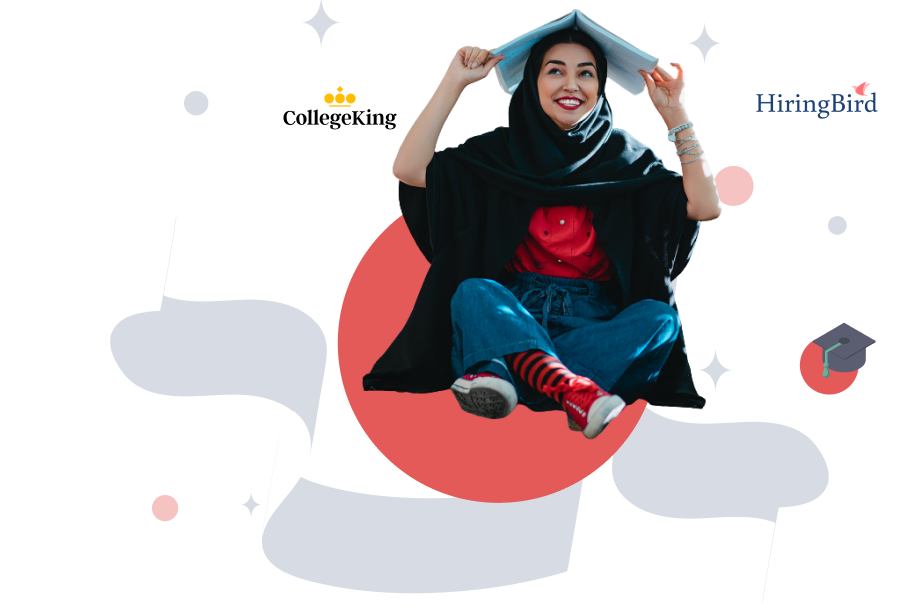
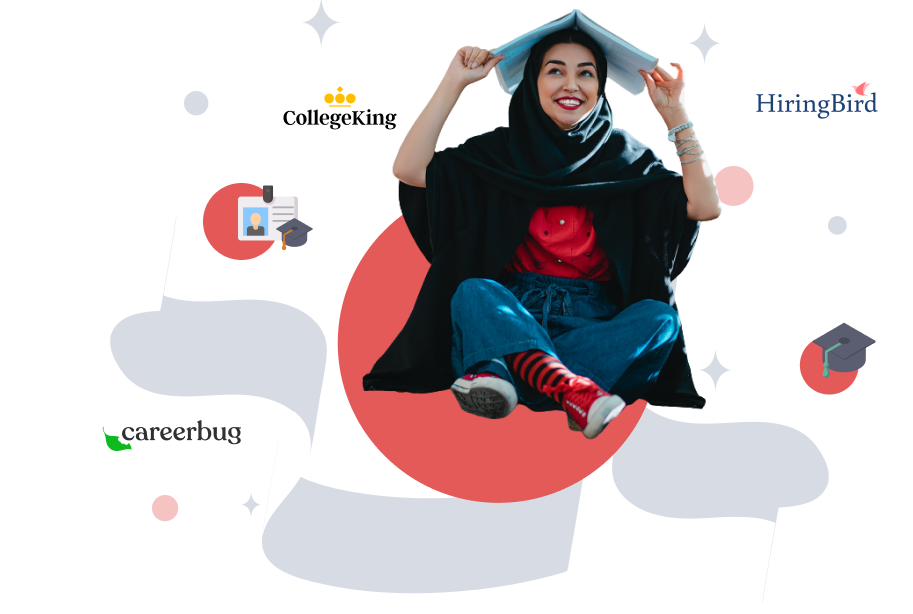
new changes

Changed region(s): [[0.2147, 0.2785, 0.3373, 0.4332], [0.092, 0.6808, 0.276, 0.7427]]

diff --git a/src/components/icons/cog.js b/src/components/icons/cog.js
@@ -1,20 +1,11 @@
 import React from 'react';
 import { rgba } from 'polished';
+import career from 'assets/images/career.png';
+import Image from 'components/image';
 
 const Cog = ({ fill, ...props }) => {
   return (
-    <svg
-      width="31"
-      height="32"
-      viewBox="0 0 31 32"
-      fill={fill ?? rgba('#FFFFFF', 0.3)}
-    >
-      <path
-        fillRule="evenodd"
-        clipRule="evenodd"
-        d="M30.8616 13.9725C30.8114 13.7549 30.6887 13.561 30.5138 13.4222C30.3388 13.2835 30.1219 13.2081 29.8986 13.2087C29.2242 13.2045 28.567 12.9964 28.0133 12.6114C27.4597 12.2264 27.0356 11.6828 26.7969 11.0521C26.5425 10.392 26.4862 9.67203 26.6349 8.98038C26.7836 8.28873 27.1308 7.65546 27.634 7.1582C27.7905 7.00576 27.886 6.80152 27.9028 6.58377C27.9196 6.36602 27.8566 6.14961 27.7255 5.97497C27.0345 5.04748 26.2383 4.20326 25.3531 3.45897C25.2724 3.39012 25.179 3.33778 25.0782 3.30504C24.9773 3.27229 24.8711 3.25976 24.7654 3.26811C24.6597 3.27645 24.5566 3.3055 24.4622 3.35367C24.3677 3.40183 24.2837 3.46809 24.2149 3.54874C23.7599 4.06388 23.1565 4.42546 22.4876 4.58369C21.8187 4.74192 21.1173 4.68898 20.4797 4.43232C19.8366 4.1347 19.299 3.64893 18.938 3.03921C18.577 2.4295 18.4096 1.72469 18.4578 1.01775C18.4733 0.800743 18.406 0.585925 18.2696 0.416447C18.1332 0.24697 17.9377 0.135234 17.7224 0.104005C16.6033 -0.0282801 15.4729 -0.0331362 14.3527 0.0891959C14.1388 0.119789 13.9439 0.22853 13.8056 0.394509C13.6672 0.560487 13.5953 0.771877 13.6038 0.987767C13.6384 1.68816 13.4613 2.38273 13.0956 2.98108C12.7299 3.57942 12.1925 4.05382 11.5535 4.34255C10.919 4.59114 10.2237 4.63963 9.56089 4.48168C8.89805 4.32373 8.29935 3.96696 7.8452 3.45897C7.70602 3.29943 7.50997 3.20062 7.29892 3.18383C7.08788 3.16703 6.87865 3.2335 6.716 3.36902C5.81332 4.10521 5.00005 4.94471 4.29278 5.87021C4.15914 6.04655 4.09451 6.2655 4.11105 6.48614C4.1276 6.70678 4.22419 6.91381 4.38264 7.06825C4.89475 7.56608 5.24763 8.20474 5.39666 8.90323C5.54569 9.60173 5.48411 10.3287 5.21978 10.9922C4.95425 11.6338 4.50103 12.1803 3.91946 12.5599C3.33788 12.9394 2.65517 13.1343 1.96088 13.1189C1.74304 13.1083 1.52977 13.1842 1.36763 13.3301C1.20548 13.476 1.10761 13.68 1.09522 13.8977C0.965655 15.0874 0.965655 16.2876 1.09522 17.4772C1.14866 17.6968 1.27479 17.8917 1.45319 18.0304C1.63159 18.1691 1.85175 18.2434 2.07771 18.2411C2.75025 18.2419 3.40626 18.449 3.95721 18.8347C4.50816 19.2204 4.92752 19.766 5.15844 20.3976C5.41436 21.0575 5.47139 21.7779 5.32262 22.4699C5.17384 23.1619 4.82573 23.7951 4.32121 24.2915C4.1648 24.444 4.06927 24.6482 4.05246 24.866C4.03565 25.0837 4.09874 25.3001 4.22989 25.4748C4.92127 26.401 5.71615 27.245 6.59917 27.9908C6.76384 28.1262 6.97457 28.1925 7.18713 28.1758C7.39968 28.159 7.59747 28.0606 7.73888 27.901C8.19183 27.3834 8.79505 27.0201 9.46436 26.8617C10.1337 26.7033 10.8358 26.7577 11.4727 27.0174C12.1165 27.3144 12.655 27.7998 13.0169 28.4096C13.3787 29.0194 13.5468 29.7246 13.499 30.432C13.4859 30.6485 13.554 30.8622 13.69 31.0311C13.826 31.2 14.0201 31.3122 14.2344 31.3457C14.8066 31.4181 15.3829 31.4531 15.9597 31.4505C16.51 31.4505 17.06 31.4205 17.6071 31.3605C17.8231 31.3285 18.0194 31.2172 18.1578 31.0483C18.2962 30.8794 18.3668 30.6651 18.3559 30.447C18.3249 29.7474 18.5034 29.0546 18.8684 28.457C19.2333 27.8594 19.7683 27.3841 20.4048 27.0922C21.0408 26.8458 21.7368 26.7999 22.3997 26.9606C23.0625 27.1212 23.6604 27.4806 24.1131 27.9908C24.2525 28.1504 24.4488 28.2493 24.6601 28.2661C24.8714 28.2829 25.0808 28.2163 25.2437 28.0807C26.1484 27.3411 26.9619 26.4964 27.667 25.5645C27.8003 25.3908 27.8647 25.1742 27.8481 24.9559C27.8315 24.7376 27.7351 24.5331 27.5772 24.3815C27.0653 23.8835 26.7124 23.2449 26.5632 22.5465C26.4139 21.8481 26.4749 21.1213 26.7385 20.4576C26.9776 19.8362 27.3969 19.3003 27.9426 18.9188C28.4882 18.5372 29.1355 18.3272 29.8012 18.3158L29.987 18.3308C30.2047 18.337 30.4166 18.2598 30.5794 18.1151C30.7422 17.9704 30.8437 17.769 30.863 17.552C30.9914 16.3623 30.9909 15.1621 30.8616 13.9725ZM16.0031 20.9967C14.9572 21.0461 13.9206 20.7812 13.0266 20.236C12.1327 19.6908 11.4226 18.8904 10.9877 17.9379C10.5528 16.9855 10.413 15.9247 10.5865 14.8921C10.76 13.8596 11.2388 12.9027 11.9611 12.1447C12.6833 11.3867 13.6161 10.8622 14.639 10.6391C15.662 10.416 16.7284 10.5044 17.7007 10.8929C18.673 11.2813 19.5067 11.952 20.0944 12.8185C20.682 13.6851 20.9967 14.7078 20.9979 15.7549C21.0284 17.1117 20.5199 18.4253 19.5837 19.4078C18.6474 20.3904 17.3598 20.9618 16.0031 20.9967Z"
-      />
-    </svg>
+    <Image src= {career}></Image>
   );
 };
 

diff --git a/src/sections/support.js b/src/sections/support.js
@@ -1,49 +1,37 @@
 /** @jsx jsx */
 import { jsx, Container, Grid, Box, Flex, Heading, Text } from 'theme-ui';
 import Image from 'components/image';
-import connect from 'assets/images/support.png';
+import support from 'assets/images/support.png';
 import rightArrow from 'assets/images/icons/right-arrow.png';
-import { useState } from 'react';
 
 const data = [
   {
     id: 1,
-    icon: connect,
-    title: 'Become an Investor for Skilzen',
-    description: `Help us grow our services by becoming an investor for skilzen.`,
-    
+    icon: support,
+    title: 'Do you need help support',
+    description: `Get your website ads tests delivered at let collect sample from the victory of the update managements services.`,
   },
   {
     id: 2,
-    icon: connect,
-    title: 'Join the Skilzen Team',
-    description: `Joing our team and extend your support for the cause we all love.`,
+    icon: support,
+    title: 'Do you need help support',
+    description: `Get your website ads tests delivered at let collect sample from the victory of the update managements services.`,
   },
 ];
 
-
-
-const Connect = () => {
-  const[myName, setMyName] = useState(data);
-  var emai = "faixanfra";
-const changetext = ()=> {
-  let val = myName;
-  val = data ?
-  setMyName(data) : setMyName(emai)
-}
-
+const Support = () => {
   return (
     <Box as="section" id="connect" sx={styles.section}>
       <Container>
-        <Grid sx={styles.grid}  >
+        <Grid sx={styles.grid}>
           {data?.map((item) => (
-            <Flex onClick = {changetext} key={item.id} sx={styles.supportItem}>
-              <Flex  onClick = {changetext} as="figure" sx={styles.media}>
-                <Image  onClick = {changetext} src={item?.icon} alt={item?.title} />
+            <Flex key={item.id} sx={styles.supportItem}>
+              <Flex as="figure" sx={styles.media}>
+                <Image src={item?.icon} alt={item?.title} />
               </Flex>
-              <Box  onClick = {changetext} sx={styles.content}>
+              <Box sx={styles.content}>
                 <Heading>
-                  {item?.title} <Image  onClick = {changetext} src={rightArrow} alt="rightArrow" />
+                  {item?.title} <Image src={rightArrow} alt="rightArrow" />
                 </Heading>
                 <Text as="p">{item?.description}</Text>
               </Box>
@@ -55,7 +43,7 @@ const changetext = ()=> {
   );
 };
 
-export default Connect;
+export default Support;
 
 const styles = {
   section: {
@@ -65,7 +53,6 @@ const styles = {
   grid: {
     gap: ['30px 30px'],
     justifyContent: 'center',
-    cursor: 'pointer',
     gridTemplateColumns: [
       'repeat(1, 1fr)',
       null,

diff --git a/src/components/icons/currency.js b/src/components/icons/currency.js
@@ -1,21 +1,11 @@
 import React from 'react';
 import { rgba } from 'polished';
+import logoo from 'assets/images/logo.png';
+import Image from 'components/image';
 
 const Currency = ({ fill, ...props }) => {
   return (
-    <svg
-      width="30"
-      height="30"
-      viewBox="0 0 30 30"
-      fill={fill ?? rgba('#FFFFFF', 0.3)}
-      {...props}
-    >
-      <path
-        fillRule="evenodd"
-        clipRule="evenodd"
-        d="M15 0C12.0333 0 9.13315 0.879681 6.66641 2.5279C4.19968 4.17612 2.27709 6.51884 1.14177 9.25973C0.00645978 12.0006 -0.290537 15.0167 0.288241 17.9264C0.867019 20.8361 2.29559 23.5087 4.39338 25.6065C6.49117 27.7043 9.16389 29.133 12.0736 29.7117C14.9833 30.2905 17.9994 29.9934 20.7402 28.8581C23.4811 27.7228 25.8238 25.8003 27.472 23.3336C29.1202 20.8668 30 17.9667 30 15C30 11.0218 28.4196 7.20653 25.6066 4.39349C22.7935 1.58044 18.9782 0 15 0ZM19.0899 20.7858C18.2482 21.6623 17.1061 22.1878 15.8928 22.2571V24.3715H14.1171V22.2571C13.0399 22.1904 12.0195 21.7502 11.2318 21.0123C10.444 20.2744 9.93828 19.2849 9.80144 18.2143L12.5485 17.5C12.5576 17.8194 12.6306 18.1336 12.7634 18.4242C12.8962 18.7148 13.086 18.9759 13.3216 19.1917C13.5572 19.4076 13.8337 19.5739 14.1348 19.6809C14.4358 19.7878 14.7553 19.8332 15.0743 19.8143C15.342 19.8393 15.612 19.8076 15.8668 19.7215C16.1215 19.6354 16.3552 19.4967 16.5528 19.3143C16.7069 19.1555 16.828 18.9675 16.9089 18.7615C16.9898 18.5555 17.029 18.3356 17.0243 18.1144C17.0373 17.9069 17.0015 17.6993 16.9196 17.5082C16.8377 17.3171 16.712 17.148 16.5528 17.0143C15.895 16.6116 15.1883 16.2947 14.45 16.0714C13.6548 15.814 12.8887 15.4741 12.1643 15.0572C11.6047 14.7202 11.1432 14.2423 10.8257 13.6714C10.4722 13.0341 10.2947 12.3143 10.3114 11.5857C10.3038 10.5771 10.6264 9.59379 11.23 8.78575C11.5821 8.34743 12.0201 7.98573 12.5171 7.72287C13.0141 7.46 13.5595 7.30143 14.1199 7.25708V5.62849H15.8957V7.25708C16.8146 7.33274 17.6851 7.70113 18.3793 8.30793C19.0735 8.91473 19.555 9.72795 19.7529 10.6285L17.3071 11.6286C17.2193 11.0883 16.9539 10.5926 16.5529 10.2201C16.1519 9.84751 15.6381 9.61923 15.0928 9.57136C14.8714 9.56213 14.6504 9.59794 14.4432 9.67651C14.2359 9.75508 14.0468 9.87489 13.8871 10.0286C13.7393 10.1765 13.6228 10.3526 13.5445 10.5465C13.4662 10.7404 13.4277 10.9482 13.4314 11.1572C13.4205 11.3508 13.4545 11.5444 13.5305 11.7228C13.6066 11.9011 13.7227 12.0596 13.87 12.1858C14.4555 12.5604 15.0869 12.8581 15.7485 13.0715C16.606 13.3597 17.4364 13.723 18.23 14.1572C18.8244 14.4949 19.32 14.9825 19.6672 15.5715C20.0331 16.2151 20.2186 16.9455 20.2043 17.6857C20.24 18.8231 19.8416 19.9315 19.0899 20.7858Z"
-      />
-    </svg>
+    <Image src= {logoo}></Image>
   );
 };
 

diff --git a/src/sections/product.js b/src/sections/product.js
@@ -53,7 +53,7 @@ const AppFeature = () => {
             </Box>
           </Box>
           <Box sx={styles.illustration}>
-            <Image src={app} alt="workHard" />
+            <Image sx={styles.appp} src={app} alt="workHard" />
           </Box>
         </Grid>
       </Container>
@@ -75,12 +75,18 @@ const styles = {
     gridTemplateColumns: ['0.9fr 1.1fr'],
     alignItems: 'center',
   },
+  
+  appp: {
+    height:'700px',
+    width:'700px',
+  },
+  
   heading: {
-    maxWidth: ['auto', null, null, '495px', 'auto'],
+    maxWidth: ['auto', null, null, '462px', 'auto'],
     textAlign: ['center', null, null, null, 'left'],
     mb: ['300px'],
     ml: [0],
-    h2: {
+    h1: {
       color: 'heading',
       fontSize: ['24px', null, null, '36px', '31px', 10, 40],
       lineHeight: [1.33, 1.33, 1.26, null, 1.5, 1.26],
@@ -91,7 +97,7 @@ const styles = {
       maxWidth: [24, null, null, 30, 25, null, '100%'],
       top: ['4px', '8px', null, null, '4px', '8px'],
       '@media screen and (min-width: 1441px) and (max-width:1600px)': {
-        maxWidth: 35,
+        maxWidth: 50,
       },
     },
     p: {
@@ -128,10 +134,10 @@ const styles = {
   },
   accordionGroup: {
     position: "absolute",
-        width: "460px",
+        width: "420px",
     height: "80px",
-    left: "129px",
-    top: "1918px",
+    left: "109px",
+    top: "1680px",
 
       m: [null, null, null, '0 auto', 'unset'],
     maxWidth: [null, null, null, 600, 'none'],

diff --git a/src/sections/dashboard.js b/src/sections/dashboard.js
@@ -13,6 +13,8 @@ import BarChart from 'components/icons/bar-chart';
 import dashboard from 'assets/images/dashboard.png';
 import dashboard1 from 'assets/images/dashboard1.png';
 import dashboard2 from 'assets/images/dashboard2.png';
+import dashboard3 from 'assets/images/dashboard3.png';
+import dashboard4 from 'assets/images/dashboard4.png';
 
 
 const data = [
@@ -23,6 +25,7 @@ const data = [
         icon: <Currency />,
         title: 'CollegeKing',
       },
+
     ],
     tabContent: [
       {
@@ -79,7 +82,7 @@ class 12 students for exploring colleges and streams.`,
     ],
     tabContent: [
       {
-        image: dashboard,
+        image: dashboard3,
         title: `Get guidance from industry experts with  our mentoring platform.`,
         description: `The yet-to-be-named platform focuses on providing mentorship to students through industry experts and making the mentoring process easily accessible to all student in need of mentorship and guidance.`,
         readMore: '#introduce-quality',
@@ -96,7 +99,7 @@ class 12 students for exploring colleges and streams.`,
     ],
     tabContent: [
       {
-        image: dashboard,
+        image: dashboard4,
         title: `Cater to all your material requirements with our e-commerce platform`,
         description: `The yet-to-be-named platform focuses on fulfiling the material needs of its users and to provide a comfortable user experience through its design and
         interactive sessions.`,

diff --git a/src/components/icons/pie-chart.js b/src/components/icons/pie-chart.js
@@ -1,21 +1,10 @@
 import React from 'react';
-import { rgba } from 'polished';
+import hiringbird from 'assets/images/hiringbird.png';
+import Image from 'components/image';
 
 const PieChart = ({ fill, ...props }) => {
   return (
-    <svg
-      width="30"
-      height="30"
-      viewBox="0 0 30 30"
-      fill={fill ?? rgba('#FFFFFF', 0.3)}
-      {...props}
-    >
-      <path
-        fillRule="evenodd"
-        clipRule="evenodd"
-        d="M16.4319 2.75436e-07V13.5545H30C29.9971 9.9581 28.5662 6.51013 26.022 3.9684C23.4777 1.42666 20.0283 -0.00072392 16.4319 2.75436e-07ZM13.5681 30C17.1666 30 20.6178 28.5705 23.1623 26.0259C25.7069 23.4814 27.1364 20.0304 27.1364 16.4319H13.5681L13.5545 2.87725C11.7736 2.87815 10.0104 3.22978 8.36543 3.91213C6.72043 4.59448 5.22589 5.59421 3.96723 6.85414C2.70858 8.11406 1.71042 9.60948 1.02972 11.2552C0.349025 12.9008 -0.000893663 14.6646 1.71398e-06 16.4455C0.00089709 18.2264 0.352531 19.9896 1.03488 21.6346C1.71723 23.2796 2.71696 24.7741 3.97689 26.0328C5.23681 27.2914 6.73223 28.2896 8.37791 28.9703C10.0236 29.651 11.7872 30.0009 13.5681 30Z"
-      />
-    </svg>
+    <Image src= {hiringbird}></Image>
   );
 };
 

diff --git a/src/sections/premium-feature.js b/src/sections/premium-feature.js
@@ -35,7 +35,7 @@ const PremiumFeature = () => {
         <Grid sx={styles.grid}>
           <div className='bord'sx={styles.bord}>
           <Box as="figure" sx={styles.illustration}>
-            <Image src={messenger} alt="messenger" />
+            <Image sx={styles.imm} src={messenger} alt="messenger" />
           </Box></div>
           <Box sx={styles.rightContent}>
             <SectionHeading
@@ -57,6 +57,10 @@ const PremiumFeature = () => {
 export default PremiumFeature;
 
 const styles = {
+  imm:{
+    height:'419px',
+    width:'832px',
+  },
   section: {
     pt: [6, null, null, 6, 8, 9],
     pb: [6, null, null, null, 7, 9, 11, null],
@@ -77,7 +81,7 @@ const styles = {
     textAlign: ['left', null, null, 'center', 'left'],
     ml: [null, null, null, 'auto'],
     maxWidth: [null, null, null, 520, 660],
-    h2: {
+    h1: {
       fontSize: [null, null, null, 10, 8, 10, 40],
 
     },
@@ -96,7 +100,7 @@ const styles = {
     borderRadius:7000,
     backgroundcolor: "#353448",
 
-height: "500px",
+height: "400px",
 screenLeft: "164px",
 screenTop: "1223px",
 rightContent:"500px",

diff --git a/src/components/tabs/tab-content.js b/src/components/tabs/tab-content.js
@@ -7,7 +7,7 @@ const TabContent = ({ tabContent }) => {
       <Box sx={styles.content}>
         <Heading>{item.title}</Heading>
         <Text as="p">{item.description}</Text>
-        <Button>More Details</Button>
+        <Button sx={styles.more}>More Details</Button>
       </Box>
       <Box
         sx={{ backgroundImage: `url(${item?.image})`, ...styles.illustration }}
@@ -24,11 +24,15 @@ const styles = {
     flexDirection: ['column-reverse', null, null, null, 'row'],
     alignItems: 'flex-start',
   },
+  more:{
+    backgroundColor:'#EC1D25',
+  },
   content: {
     maxWidth: [480, null, null, 580, 480],
     ml: [null, null, null, 'auto', 'unset'],
     mr: [0, null, null, 'auto', 10, 8, 10],
     textAlign: [null, null, null, 'center', 'left'],
+    
     h2: {
       fontWeight: 700,
       fontSize: [6, null, null, 10],

diff --git a/src/pages/index.js b/src/pages/index.js
@@ -19,6 +19,7 @@ export default function IndexPage() {
           title="Skilzen"
           description="Collection of free top of the line startup landing templates built using react/ next js. Free to download, simply edit and deploy! Updated weekly!"
         />
+        <link rel = 'short ' type='image' href='src/assets/images/emoji'></link>
         <Banner />
         <Connect />
         <PremiumFeature />

diff --git a/src/components/icons/logo.js b/src/components/icons/logo.js
@@ -19,7 +19,7 @@ const styles = {
     alignItems: 'left',
     mt: [9, null, null, null, 1],
     img: {
-     
+     color:'white',
      
 width: '123.15px',
 height: '23.86px',

diff --git a/src/components/header/navbar-drawer.js b/src/components/header/navbar-drawer.js
@@ -137,3 +137,9 @@ const styles = {
   },
   
 };
+
+
+
+
+
+  
